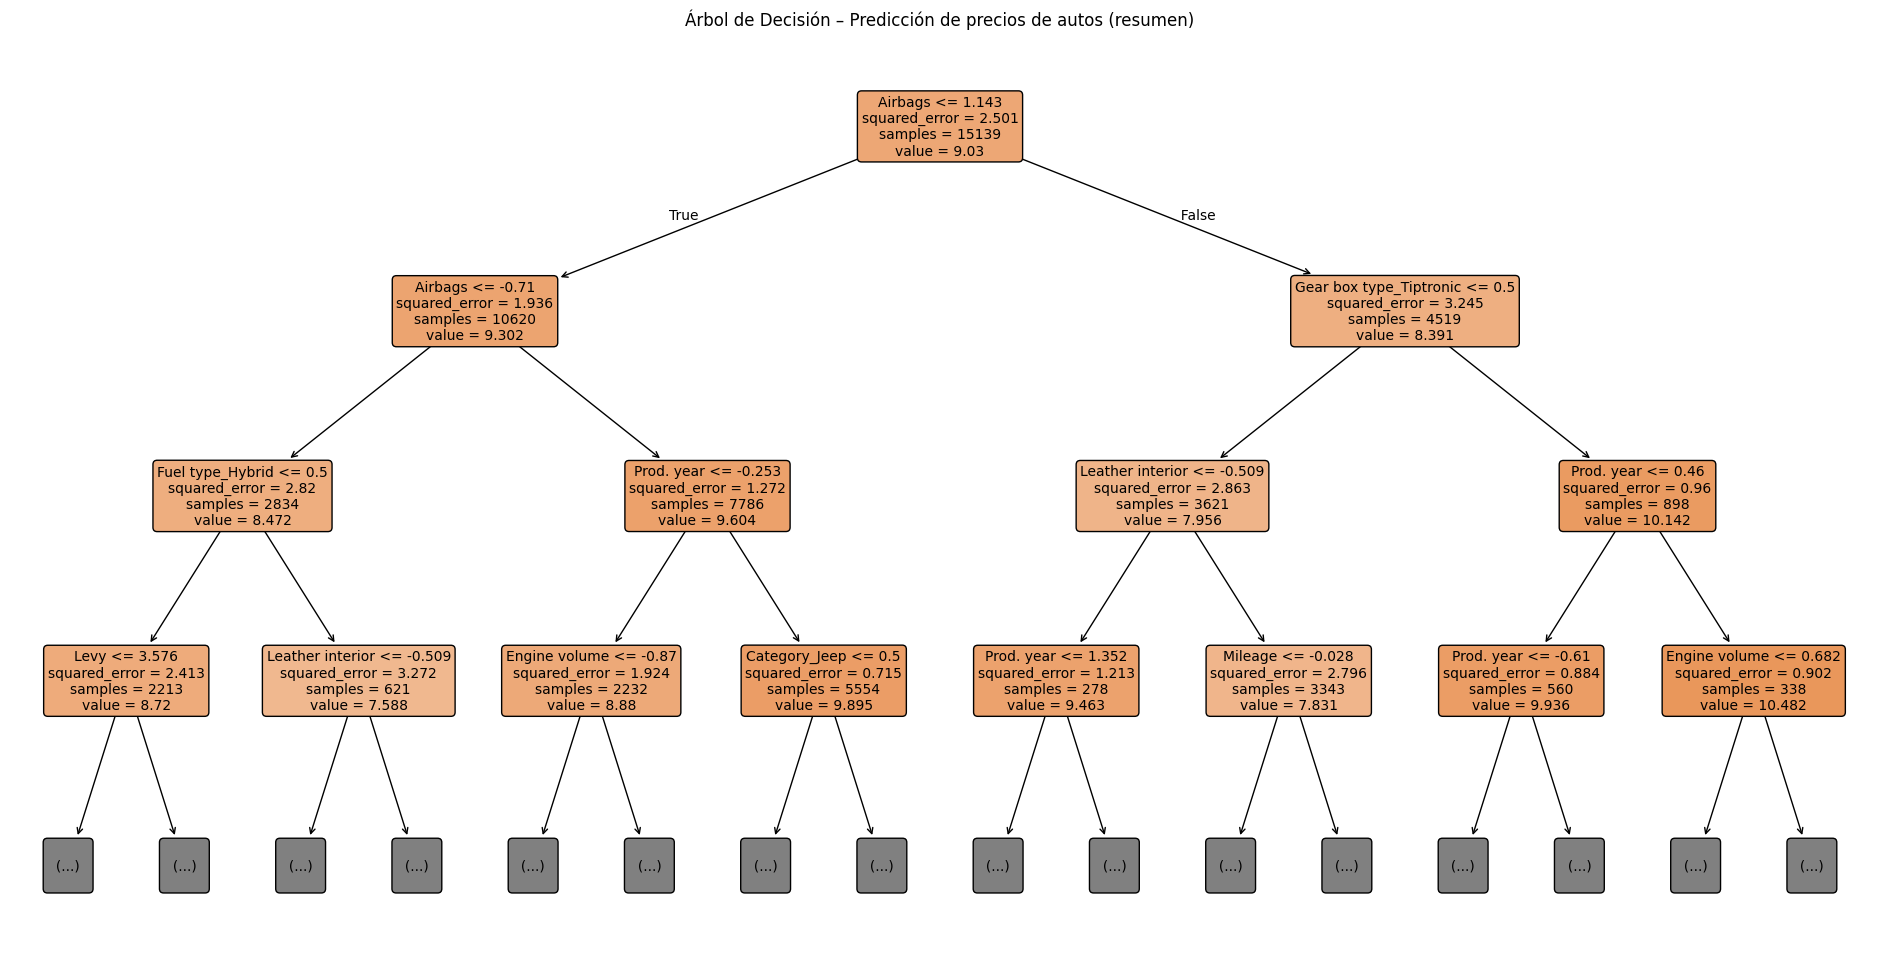
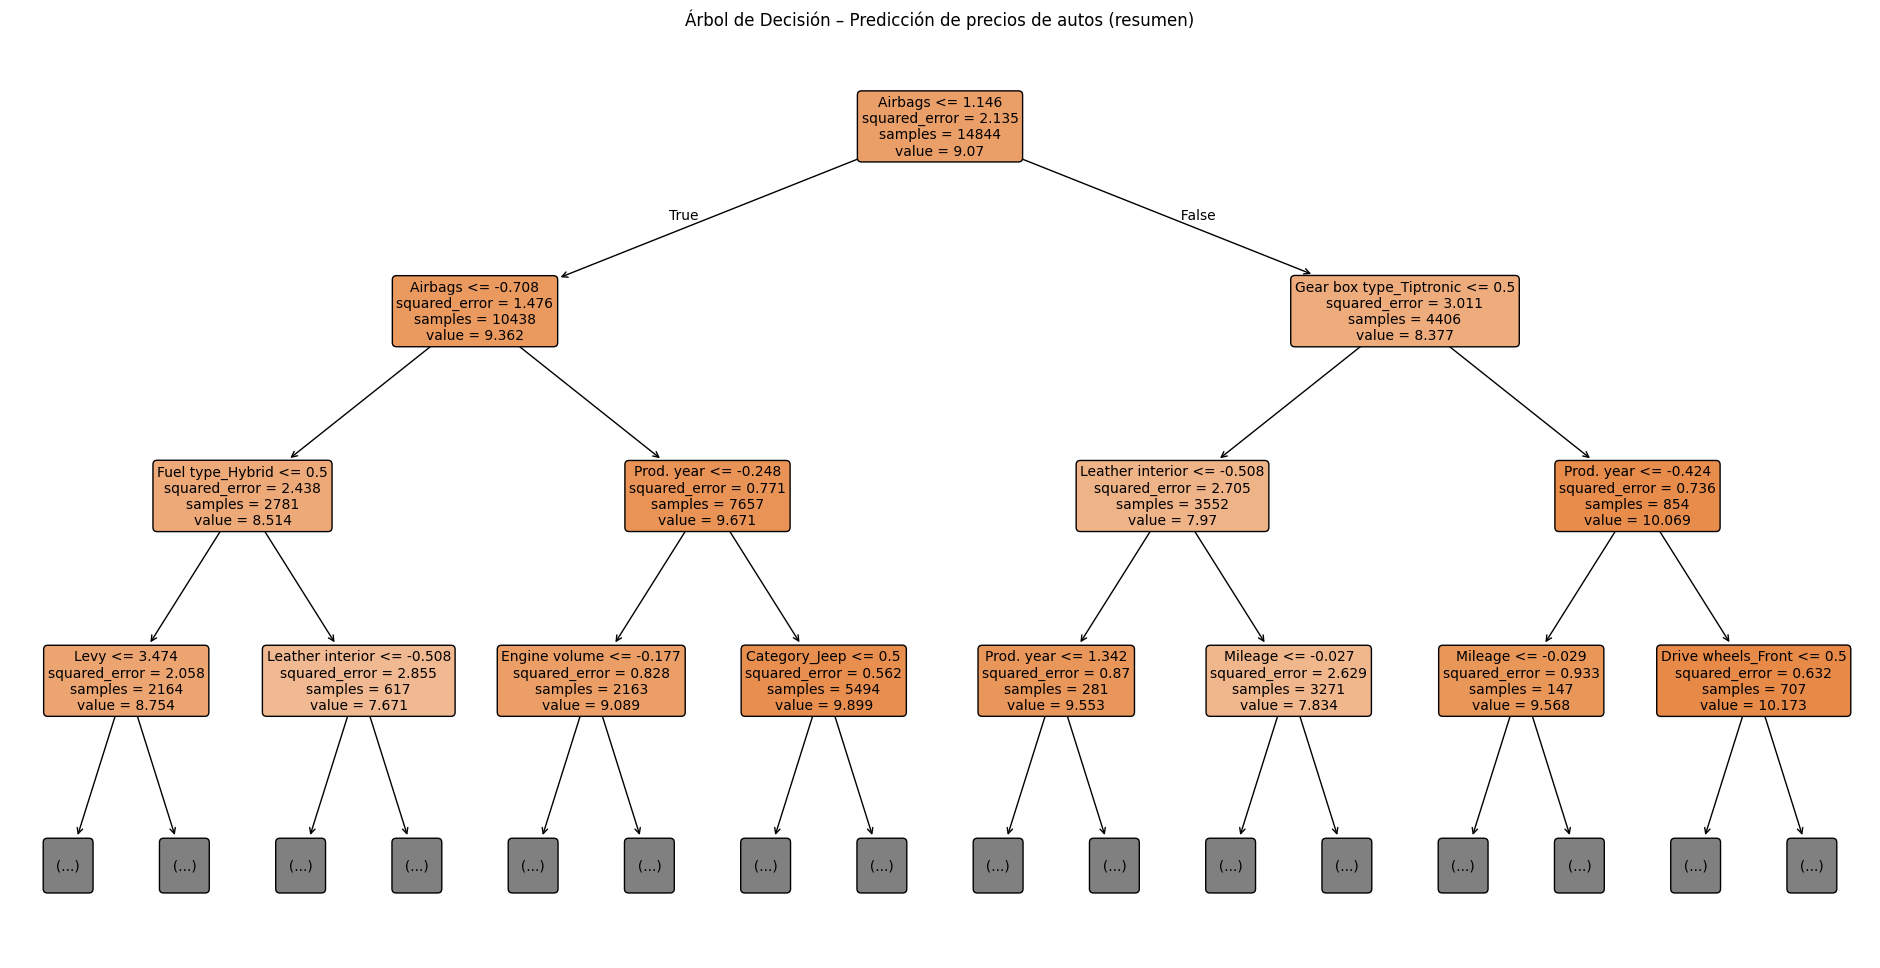
feat: Eliminar outliers

diff --git a/src/preprocessing.py b/src/preprocessing.py
@@ -47,12 +47,20 @@ def clean_data(df: pd.DataFrame) -> pd.DataFrame:
     total_nulls_after = df.isnull().sum().sum()
     print(f"✅ Se completaron los valores nulos (antes: {total_nulls_before}, ahora: {total_nulls_after})")
 
-    # 7. Eliminar columnas irrelevantes
+    # 7. Eliminar outliers en la variable objetivo (Price)
+    q1, q99 = df["Price"].quantile([0.01, 0.99])
+    before = df.shape[0]
+    df = df[(df["Price"] >= q1) & (df["Price"] <= q99)]
+    after = df.shape[0]
+    removed = before - after
+    print(f"⚖ Se eliminaron {removed} outliers en 'Price' (fuera del rango {q1:,.0f} - {q99:,.0f} USD).")
+
+    # 8. Eliminar columnas irrelevantes
     columns_to_drop = ['ID', 'Model']
     df.drop(columns=columns_to_drop, inplace=True, errors='ignore')
     print(f"🧾 Columnas eliminadas: {columns_to_drop}")
 
-    # 8. Reducir cardinalidad
+    # 9. Reducir cardinalidad
     def limit_categories(df, column, top_n=10):
         top = df[column].value_counts().index[:top_n]
         df[column] = df[column].where(df[column].isin(top), 'Other')
@@ -62,10 +70,10 @@ def clean_data(df: pd.DataFrame) -> pd.DataFrame:
     df = limit_categories(df, 'Color', 10)
     df = limit_categories(df, 'Category', 10)
 
-    # 8. Aplicar log-transformación
+    # 10. Aplicar log-transformación
     df['Price'] = np.log1p(df['Price'])
 
-    # 9. Mostrar resumen final
+    # 11. Mostrar resumen final
     print(f"📊 Dimensiones antes: {initial_shape}, después: {df.shape}")
     print("✅ LIMPIEZA COMPLETA")
     return df
